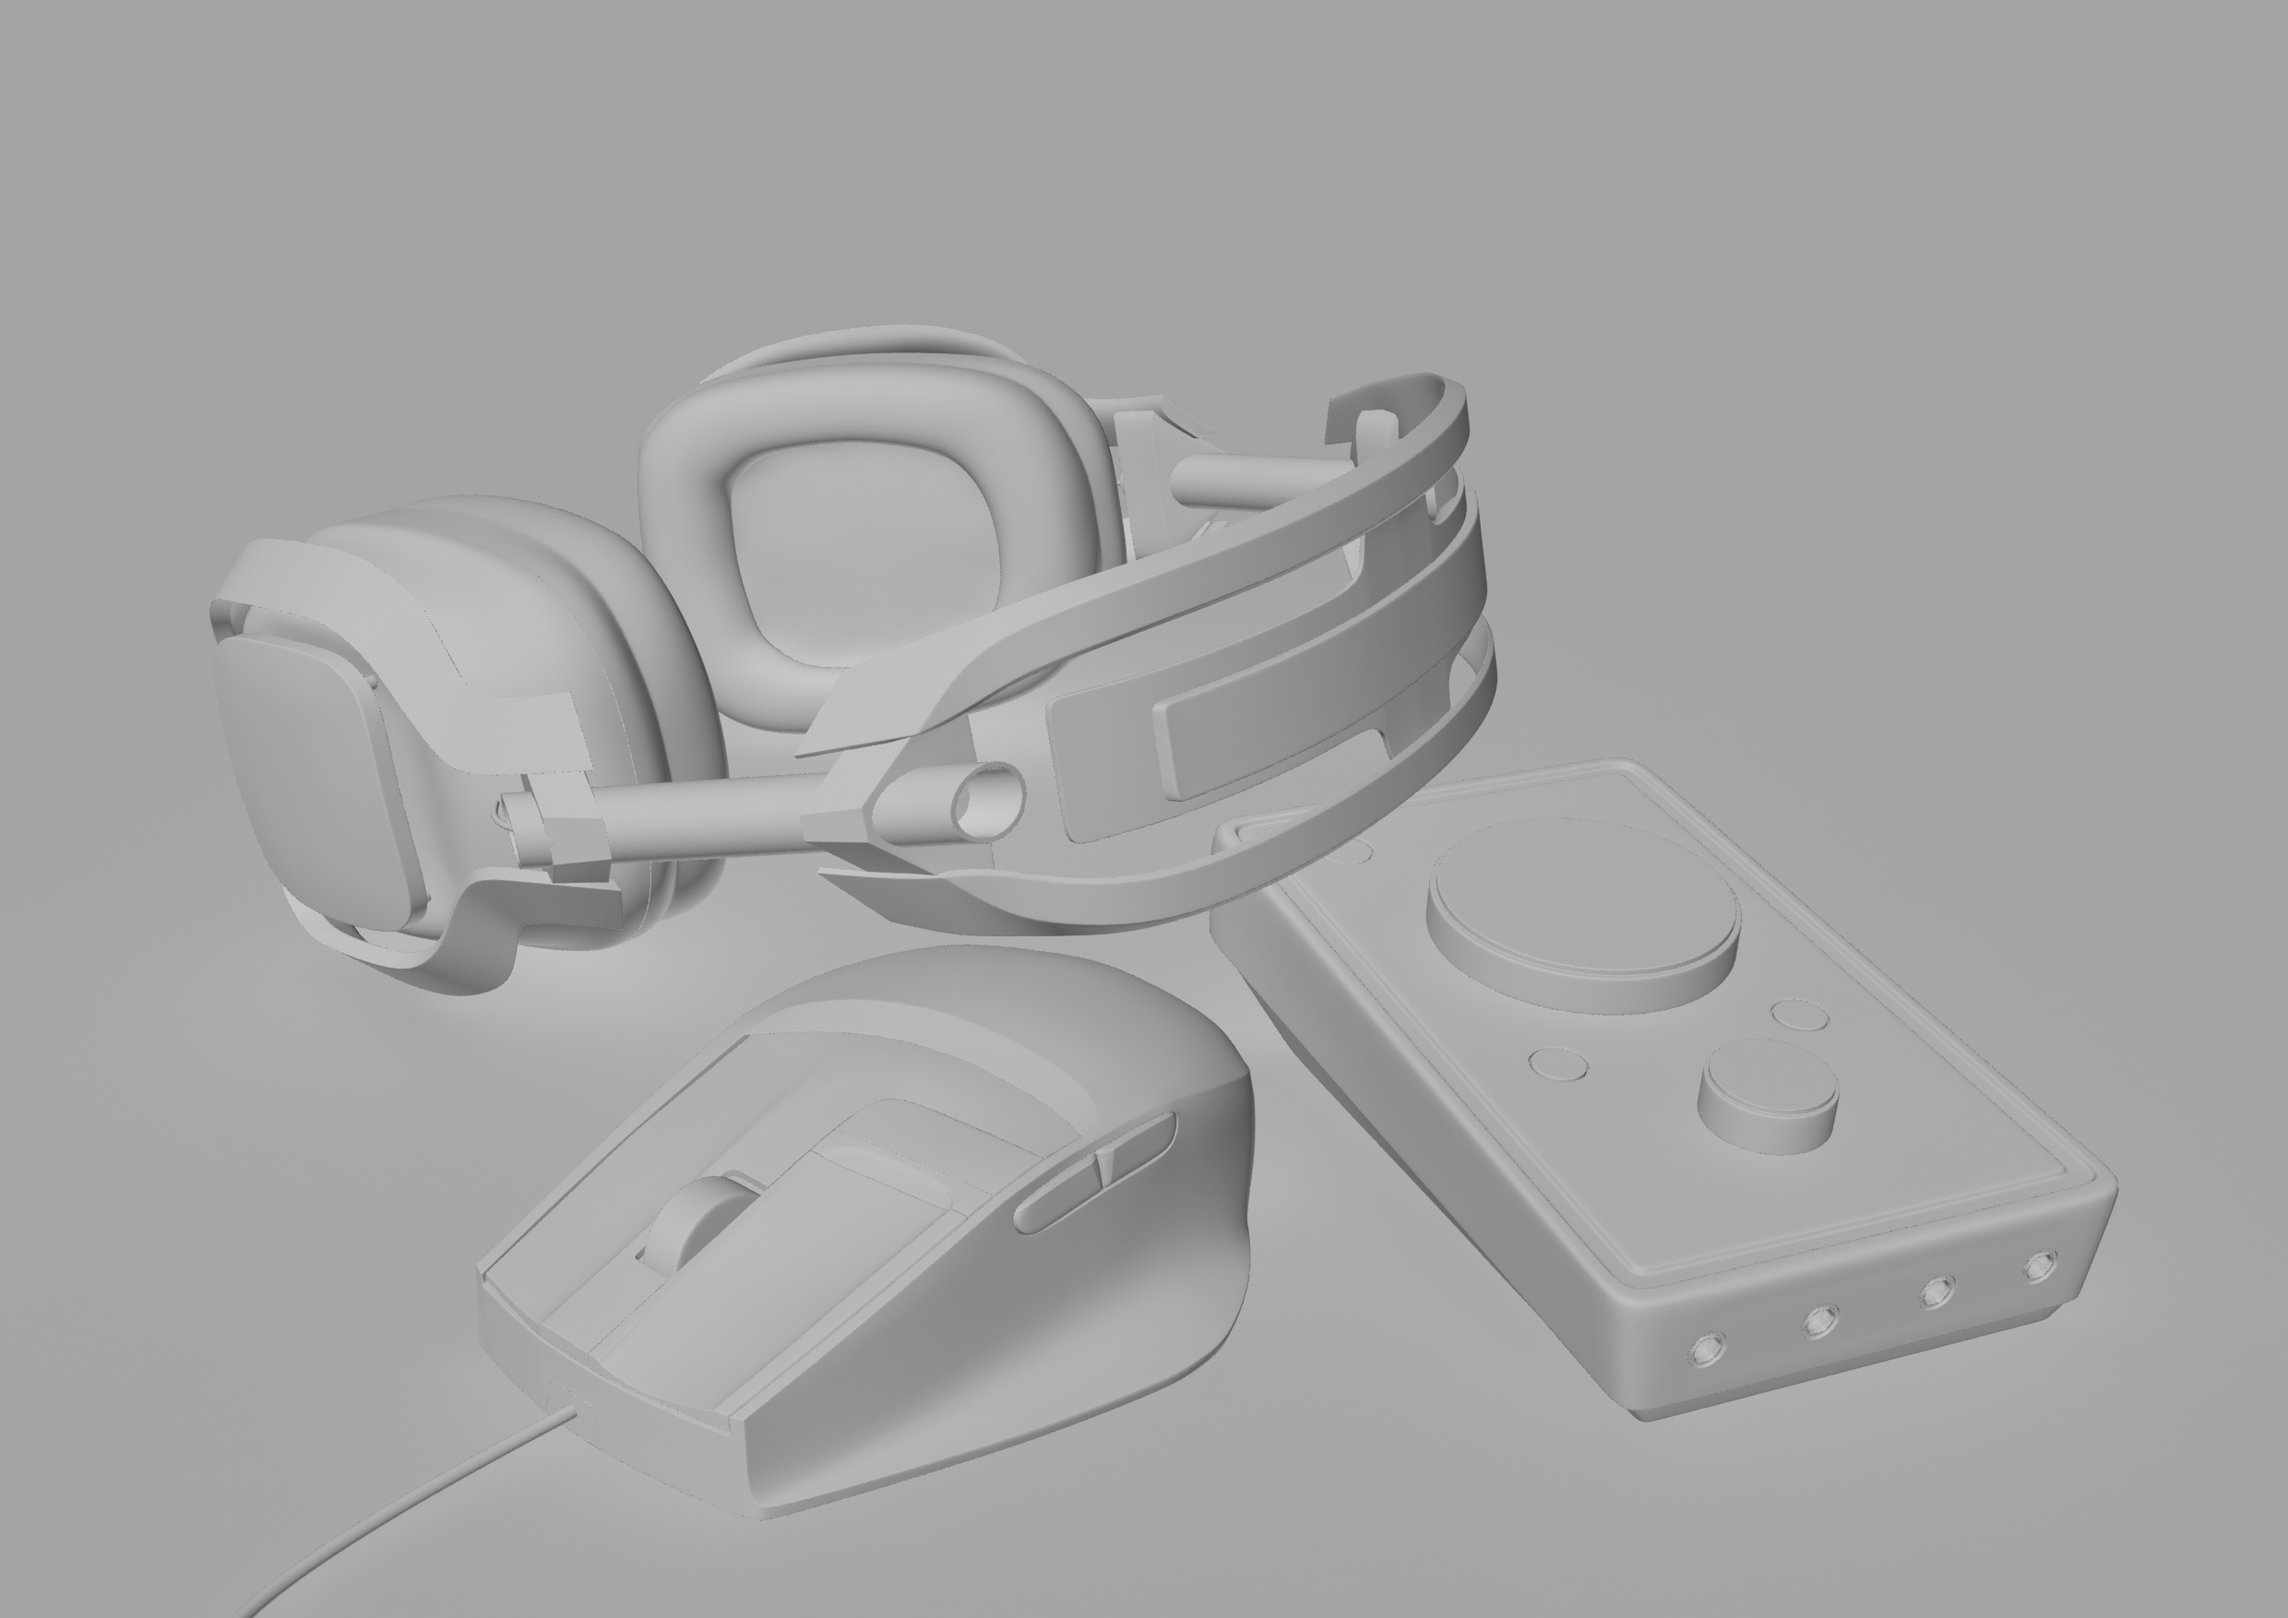
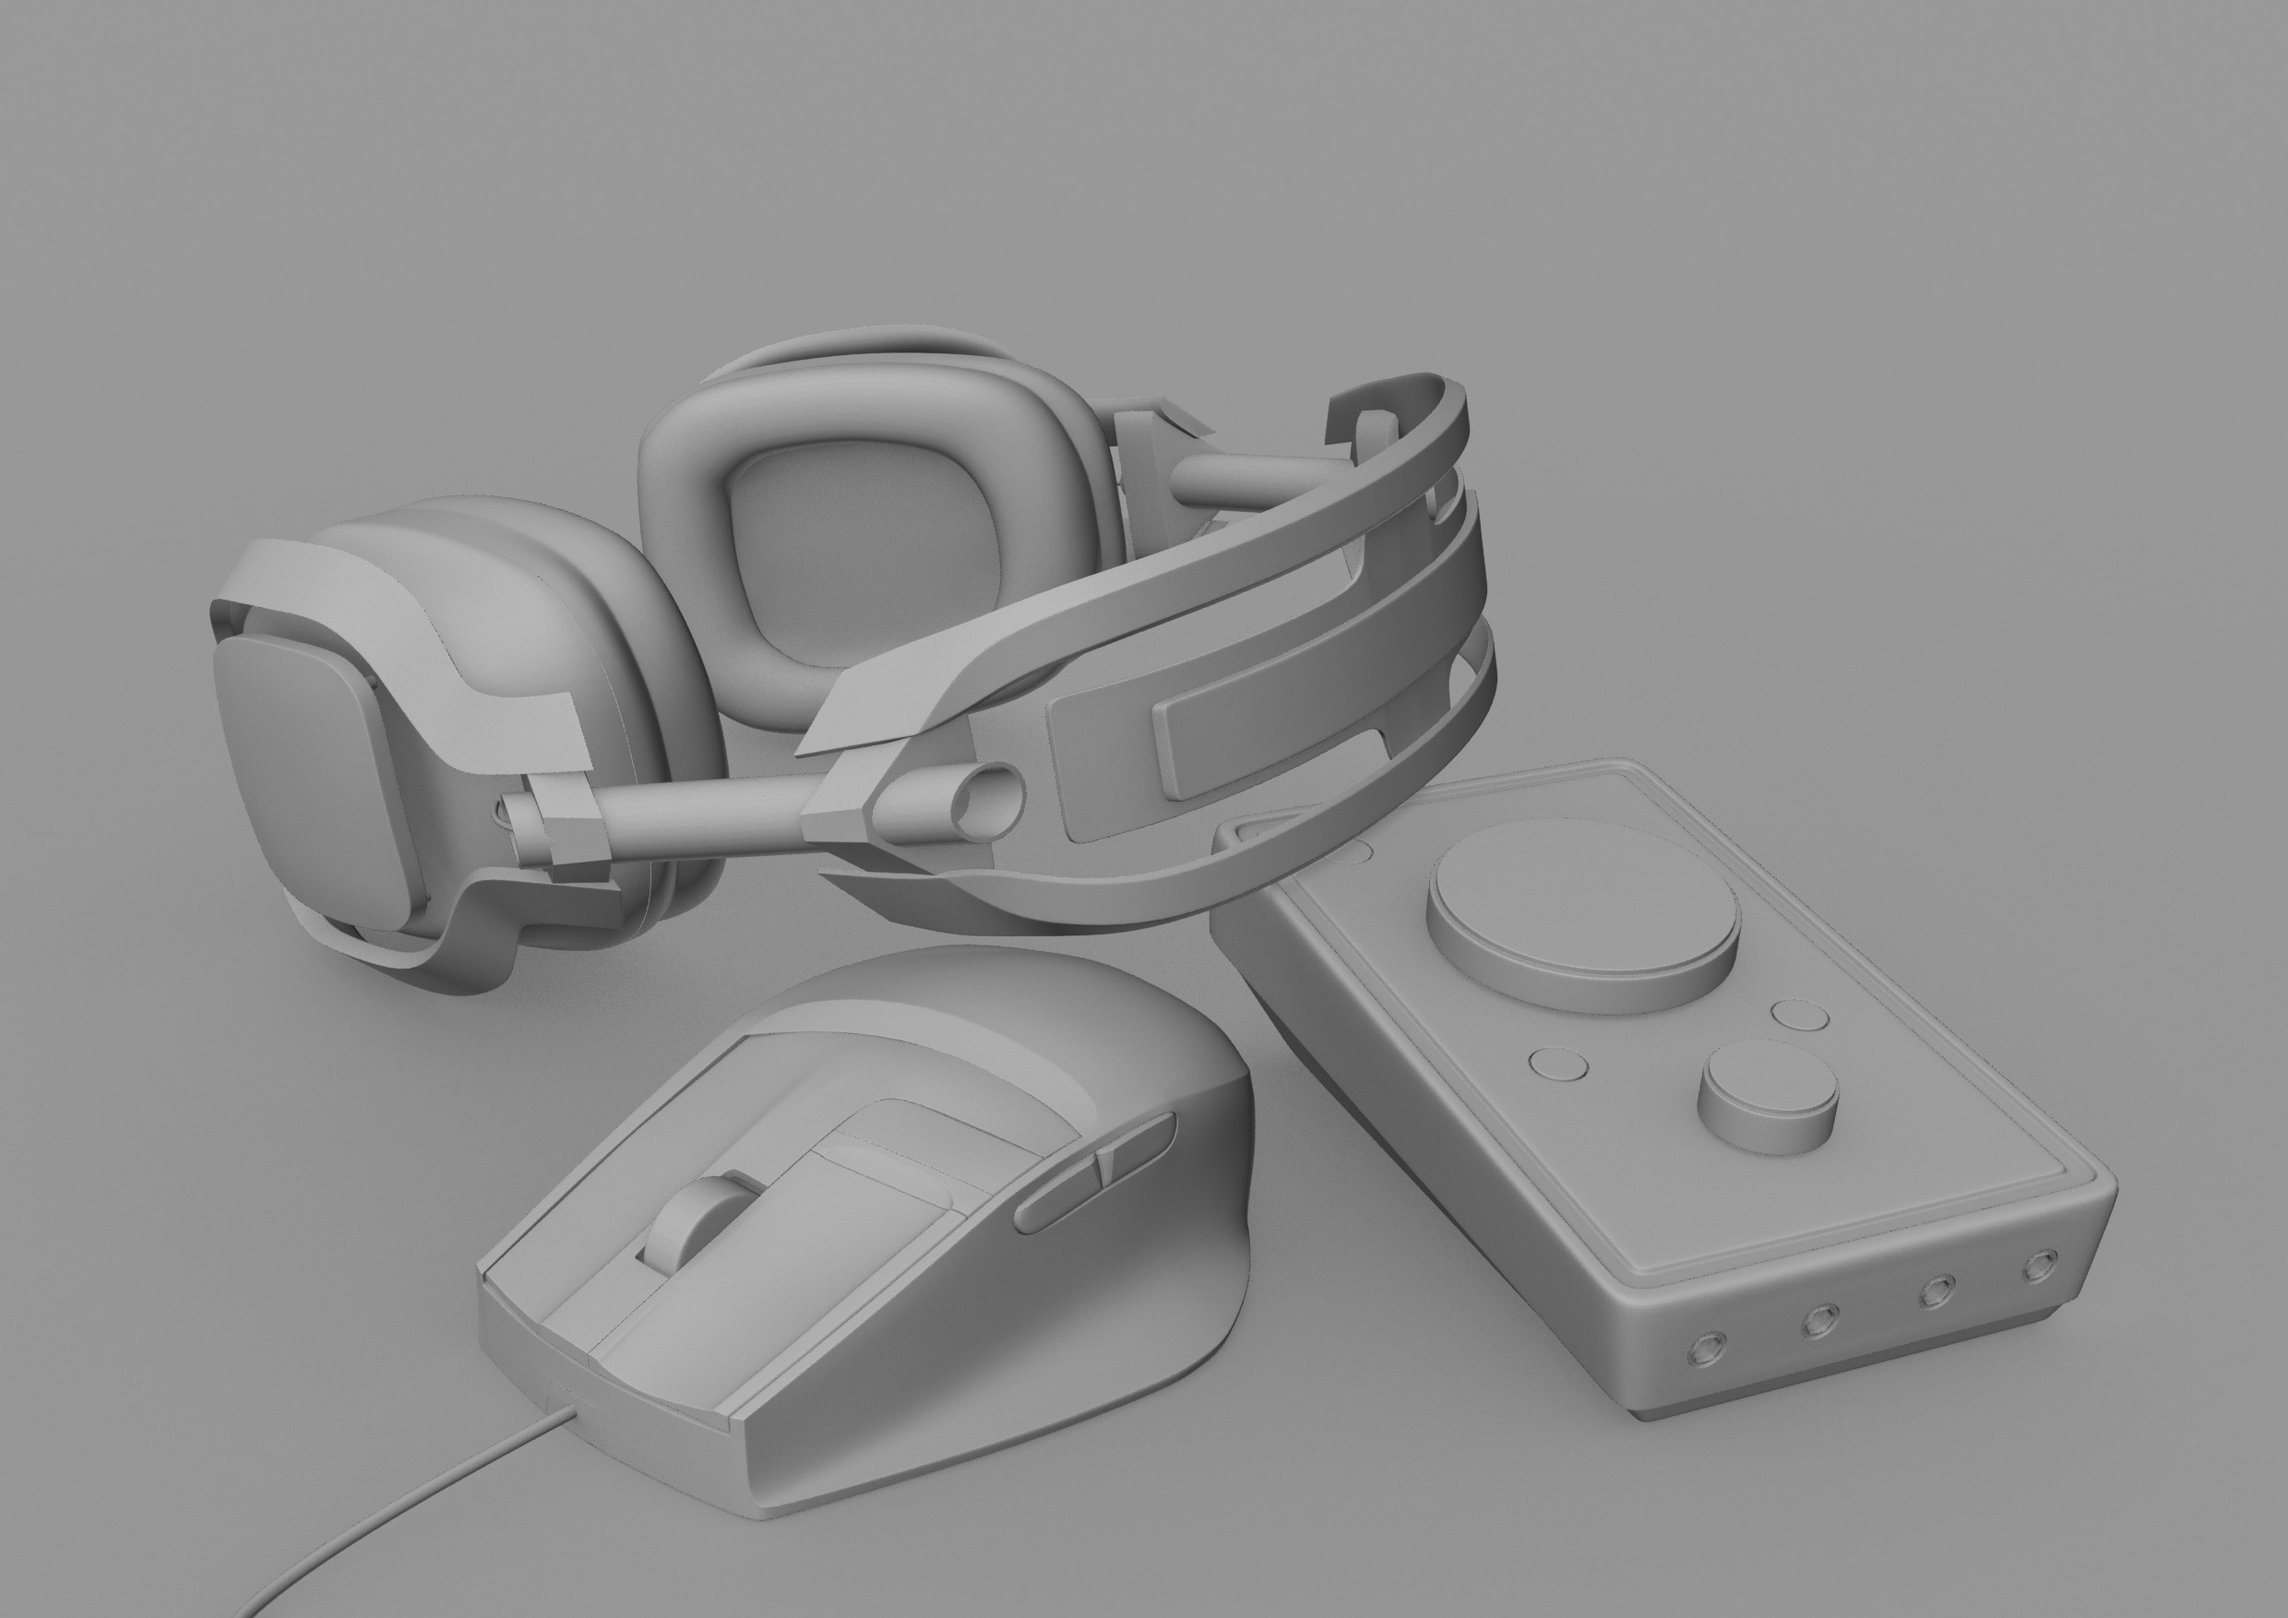
Update

Changed region(s): [[0.0931, 0.1847, 0.9315, 0.9544], [0.2794, 0.7081, 0.3415, 0.8005], [0.0931, 0.9544, 0.1552, 1.0]]

diff --git a/3D/3_objects/index.html b/3D/3_objects/index.html
@@ -1,0 +1,46 @@
+---
+layout: page
+title: 3 Hard Surface Desk Objects
+navlink: false
+permalink: /3D/3_objects/
+---
+
+<style>
+img {
+    margin-bottom: 10px;
+}
+</style>
+
+<h6>March 28, 2016</h6>
+
+<div style="margin-left: auto; margin-right: auto; text-align: center;">
+    <br />
+    <a href="/res/3D2_3_Objects_colour.jpg"><img src="/res/3D2_3_Objects_colour_small.jpg" width="740" height="523" title="Colour render"/></a>
+    <a href="/res/3D2_3_Objects_clay.jpg"><img src="/res/3D2_3_Objects_clay_small.jpg" width="740" height="523" title="Clay render"/></a>
+    <a href="/res/3D2_3_Objects_wire.jpg"><img src="/res/3D2_3_Objects_wire_small.jpg" width="740" height="523" title="Wireframe render"/></a>
+
+    <p style="text-align: left">
+        These are 3 objects I modeled and textured for a school assignment (at <a href="http://digitalartsandentertainment.be/">Digital Arts and Entertainment</a>)
+        as a way to learn subdivision surface modeling as well as procedural texturing. I spent around 4 weeks working this project.
+    </p>
+    <p style="text-align: left">
+        Objects modeled:
+        <ul style="list-style: square; text-align: left">
+            <li>Astro A40 Headset</li>
+            <li>Astro MixAmp&trade; Pro</li>
+            <li>Logitech G9X Laser Mouse</li>
+        </ul>
+    </p>
+    <p style="text-align: left">
+        Tools used:
+        <ul style="list-style: square; text-align: left">
+            <li>3ds Max 2016</li>
+            <li>Mental Ray Renderer</li>
+            <li>Photoshop CC 2015</li>
+        </ul>
+    </p>
+
+    <p>
+        (Click on the images to see higher resolutions)
+    </p>
+</div>

diff --git a/3D/index.html b/3D/index.html
@@ -4,8 +4,17 @@ title: 3D
 ---
 
 <div style="margin-left: auto; margin-right: auto; text-align: center;">
-    <h2>3 high poly objects made using procedurally generated textures</h2>
-    <a href="/3D/3D2_3_objects">
+    <h2>Fiat 131</h2>
+    <a href="/3D/fiat_131">
+        <img src="../res/3D2_fiat_131_beauty_small.jpg" width="740" height="523"/>
+        Read More...
+    </a>
+    <br />
+    <br />
+    <hr />
+    <br />
+    <h2>3 Hard Surface Desk Objects</h2>
+    <a href="/3D/3_objects">
         <img src="../res/3D2_3_Objects_colour_small.jpg" width="740" height="523"/>
         Read More...
     </a>
@@ -13,7 +22,7 @@ title: 3D
     <br />
     <hr />
     <br />
-    <h2>Low poly Japanese City scene</h2>
+    <h2>Low Poly Japanese City Scene</h2>
     <iframe width="640" height="480" src="https://sketchfab.com/models/d9f01d0286124cb19fe8e517ab90b2d5/embed" frameborder="0"
     allowfullscreen mozallowfullscreen="true" webkitallowfullscreen="true" onmousewheel=""></iframe>
     <p style="font-size: 13px; font-weight: normal; margin: 5px; color: #4A4A4A;">
@@ -25,7 +34,8 @@ title: 3D
     <br />
     <hr />
     <br />
-    <h2>2002 Mercedes-Benz G500 made entirely from primitives in 3DS Max</h2>
+    <h2>2002 Mercedes-Benz G500</h2>
+    <h4>Made entirely from primitives, using 3ds Max</h4>
     <iframe width="640" height="480" src="https://sketchfab.com/models/c414a3d5ecf24ba28d7f277e2ec6d18a/embed" frameborder="0"
     allowfullscreen mozallowfullscreen="true" webkitallowfullscreen="true" onmousewheel=""></iframe>
     <p style="font-size: 13px; font-weight: normal; margin: 5px; color: #4A4A4A;">

diff --git a/3D/fiat_131/index.html b/3D/fiat_131/index.html
@@ -1,0 +1,52 @@
+---
+layout: page
+title: Fiat 131 Mirafiori
+navlink: false
+permalink: /3D/fiat_131/
+---
+
+<style>
+img {
+    margin-bottom: 10px;
+}
+</style>
+
+<h6>May 1, 2016</h6>
+
+<div style="margin-left: auto; margin-right: auto; text-align: center;">
+    <br />
+    <a href="/res/3D2_fiat_131_beauty.jpg">
+    <img src="/res/3D2_fiat_131_beauty_small.jpg" width="740" height="523"/>
+    </a>
+
+    <a href="/res/3D2_fiat_131_vintage.jpg">
+    <img src="/res/3D2_fiat_131_vintage_small.jpg" width="740" height="523"/>
+    </a>
+
+    <a href="/res/3D2_fiat_131_clay.jpg">
+    <img src="/res/3D2_fiat_131_clay_small.jpg" width="740" height="523"/>
+    </a>
+
+    <a href="/res/3D2_fiat_131_wire.jpg">
+    <img src="/res/3D2_fiat_131_wire_small.jpg" width="740" height="523"/>
+    </a>
+
+    <p style="text-align: left">
+        This is a hard surface model of the 1980 Fiat 131 Mirafiori.
+        <br />
+        I worked on this model for the past two months or so. It was by far the biggest 3D project I've attempted.
+        I'm quite pleased with the end result.
+        <br />
+        <br />
+
+        <ul style="list-style: square; text-align: left">
+            <b>Tools used:</b>
+            <li>3ds Max 2016</li>
+            <li>Adobe Photoshop CC 2015</li>
+        </ul>
+    </p>
+
+    <p>
+        (Click on images to see higher resolutions)
+    </p>
+</div>

diff --git a/3D/3D2_fiat_131/index.html b/3D/3D2_fiat_131/index.html
@@ -1,0 +1,35 @@
+---
+layout: page
+title: Fiat 131 Mirafiori
+navlink: false
+permalink: /3D/3D2_fiat_131/
+---
+
+<style>
+img {
+    margin-bottom: 10px;
+}
+</style>
+
+<div style="margin-left: auto; margin-right: auto; text-align: center;">
+    <br />
+    <img src="/res/3D2_fiat_131_clay.jpg" width="740" height="523"
+        onmouseover="this.src='/res/3D2_fiat_131_wire.jpg'"
+        onmouseout="this.src='/res/3D2_fiat_131_clay.jpg'"/>
+
+    <p style="text-align: left">
+        A work in progress SubD model of the Fiat 131 Mirafiori, made in 3Ds Max.
+    </p>
+    <!-- <p style="text-align: left">
+        Objects modeled:
+        <ul style="list-style: square; text-align: left">
+            <li>Astro A40 Headset</li>
+            <li>Astro MixAmp&trade; Pro</li>
+            <li>Logitech G9X Laser Mouse</li>
+        </ul>
+    </p> -->
+
+    <p>
+        (Hover over images to see wireframes)
+    </p>
+</div>

diff --git a/_layouts/post.html b/_layouts/post.html
@@ -13,9 +13,11 @@ layout: default
   </div>
 
 <div class="post-nav">
-    {{% if page.previous %}}<a href="{{ page.previous.url }}">{{ page.previous.title }}</a>{{% endif %}}
+    {% if page.previous %}<a href="{{ page.previous.url }}">&lt; {{ page.previous.title }}</a>{% endif %}
     <!-- {{% if (page.previous != nil) and (page.next != nil) %}} | {{% endif %}} -->
-    {{% if page.next %}}<a href="{{ page.next.url }}">{{ page.next.title }}</a>{{% endif %}}
+    {% if page.next %}<a href="{{ page.next.url }}" style="float:right">{{ page.next.title }} &gt;</a>{% endif %}
 </div>
+
+{% include disqus.html %}
 
 </article>

diff --git a/_sass/_base.scss b/_sass/_base.scss
@@ -193,3 +193,8 @@ pre {
         }
     }
 }
+
+.post-nav {
+    margin-top: 30px;
+    margin-bottom: 20px;
+}

diff --git a/_posts/2016-01-30-first-post.md b/_posts/2016-01-30-first-post.md
@@ -7,7 +7,7 @@ permalink: /blog/:year/:month/:day/:title/
 author: AJ Weeks
 ---
 
-This is my first blog post using [jekyll](https://jekyllrb.com/)! I first heard about jekyll around a year ago, but I was afraid to dive into using it as it seemed a bit daunting. Although now I can say with certainty that I'm quite glad I did. It wasn't *too* bad to install, even on Windows which it doesn't technically support. I've wanted a way to blog for a long time now, but up until now I hadn't found anything that wasn't overly restrictive (I'm looking at you Wordpress), and also wasn't super complicated. Jekyll seems to be a really good middle ground. You have to be comfortable with a command line interface, but at the same time you don't need to know how to program asm.
+This is my first blog post using [jekyll](https://jekyllrb.com/)! Jekyll is tool which helps you create websites, and it has a lot of useful features for blogging. I first heard about it around a year ago, but I was afraid to dive into using it as it seemed a bit daunting. Although now I can say with certainty that I'm quite glad I did. It wasn't *too* bad to install, even on Windows which it doesn't technically support. I've wanted to have an easy way to blog for a long time now, and up until now I hadn't found anything that wasn't overly restrictive (I'm looking at you Wordpress), and also wasn't super complicated. Jekyll seems to be a really good middle ground. You have to be comfortable with a command line interface, but at the same time you don't need to know how to program assembly.
 
 The reason I decided to learn jeykll was mostly since I just purchased a domain name, [ajweeks.com](http://ajweeks.com), since my old URL was a bit unprofessional (ajweeks.github.io). Hopefully I'll continue to be pleasantly surprised with this service and therefore be encouraged to post on here often. It definitely makes web development a whole lot easier.
 

diff --git a/index.md b/index.md
@@ -6,8 +6,9 @@ layout: default
 
 ### News
 
+### <span style="font-size: 16px">(2016-06-01)</span> [Fiat 131](/3D/fiat_131/)
 
-### <span style="font-size: 16px">(2016-03-28)</span> [High poly modeling assignment](/3D/3D2_3_objects/)
+### <span style="font-size: 16px">(2016-03-28)</span> [High poly modeling assignment](/3D/3_objects/)
 
 ### <span style="font-size: 16px">(2016-02-28)</span> [Breakout update](/breakout/)
 

diff --git a/contact.md b/contact.md
@@ -6,4 +6,4 @@ permalink: /contact/
 
 If you have some feedback for one of my games, the best way to reach me would be through [twitter](http://twitter.com/liqwidice).
 
-Additionally, I can be reached at contact@ajweeks.com.
+Additionally, I can be reached at <contact@ajweeks.com>.
